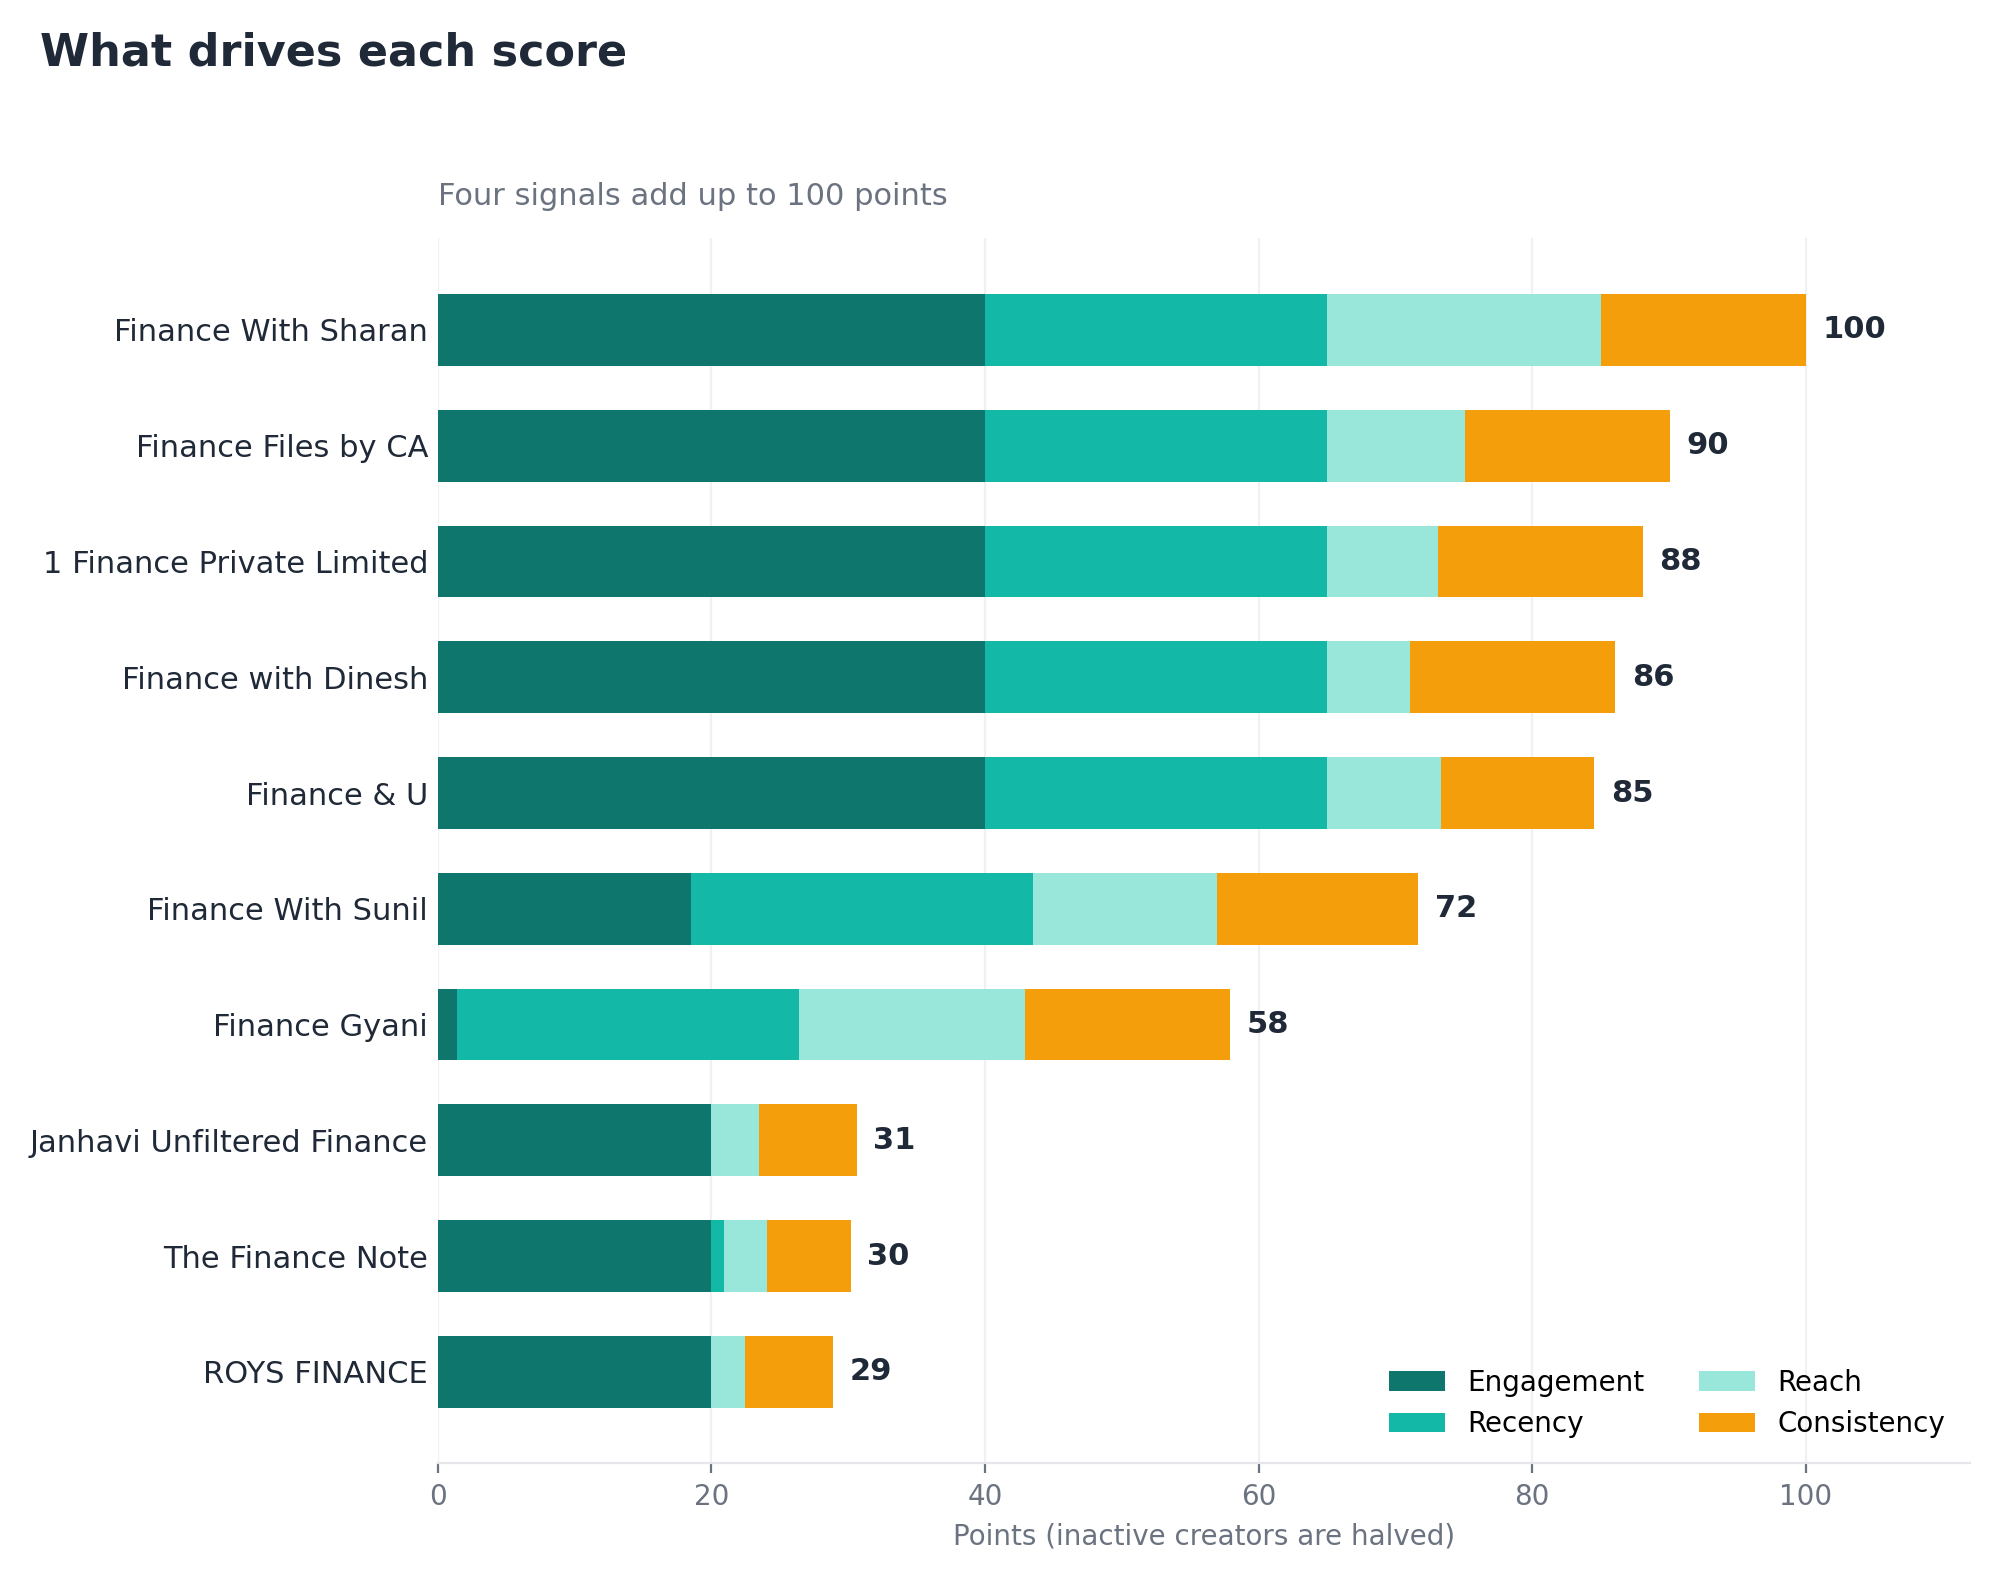
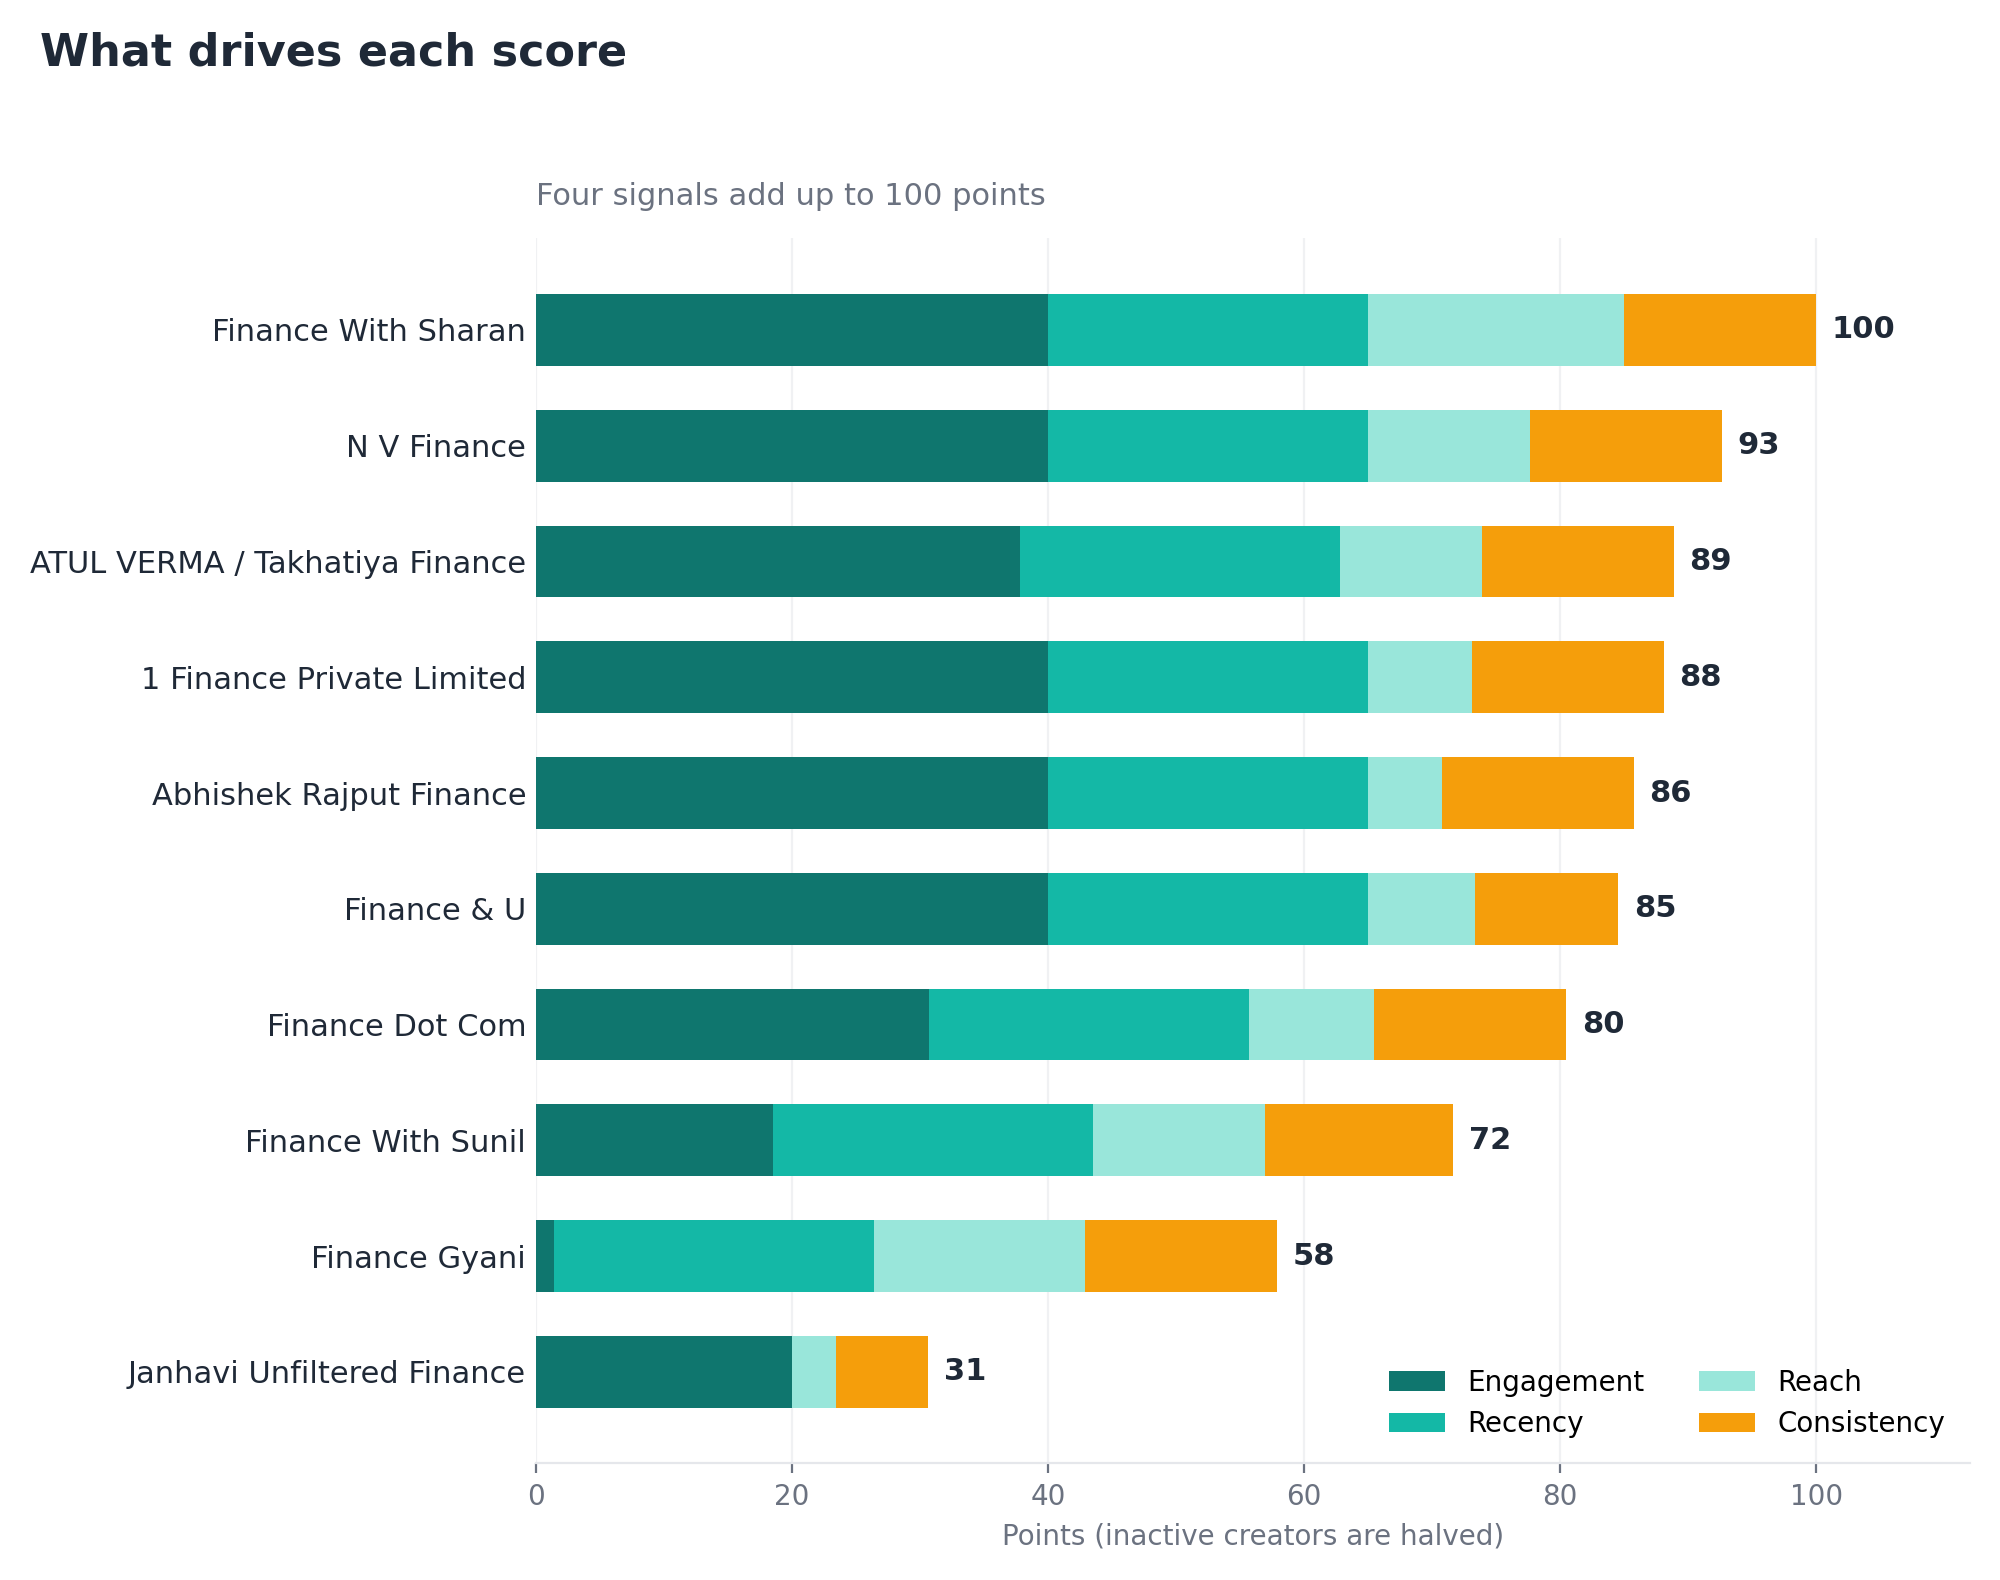
Refresh charts, fix clone URL, add caption

diff --git a/README.md b/README.md
@@ -7,6 +7,8 @@
 
 A Python command-line tool that finds YouTube creators in a niche, checks how big and how active they are, and ranks them with a simple score. It uses the free YouTube Data API v3, reads metadata only (no videos are ever downloaded), and keeps going when individual channels are broken, deleted or restricted.
 
+*Example output: 10 Indian finance creators ranked from 0 to 100 on how active and engaging they are. Teal bars posted in the last 30 days; grey bars have gone quiet.*
+
 ![Potential score of 10 Indian finance creators](docs/results_chart.png)
 
 [Setup](#setup) · [Search options](#configuring-the-search-parameters) · [Authentication](#handling-authentication) · [Output](#output) · [Free-tier limits](#staying-within-the-free-limits)
@@ -14,7 +16,7 @@ A Python command-line tool that finds YouTube creators in a niche, checks how bi
 > [!TIP]
 > After setup, one command finds, audits and ranks creators:
 > ```bash
-> python discovery_engine.py --keyword finance --region IN --strict-region --max-channels 10
+> python discovery_engine.py --keyword finance --region IN --strict-region --language en --max-channels 10 
 > ```
 
 ## What it does
@@ -69,7 +71,7 @@ Done: 2 succeeded, 3 failed.
 Requires Python 3.7 or newer. The code avoids newer-only syntax and the dependencies are pinned to versions that support 3.7. It was developed and run on Python 3.11.
 
 ```bash
-git clone <this-repo-url>
+git clone https://github.com/parineetarao/influencer-discovery-engine
 cd influencer-discovery-engine
 python -m venv venv
 
